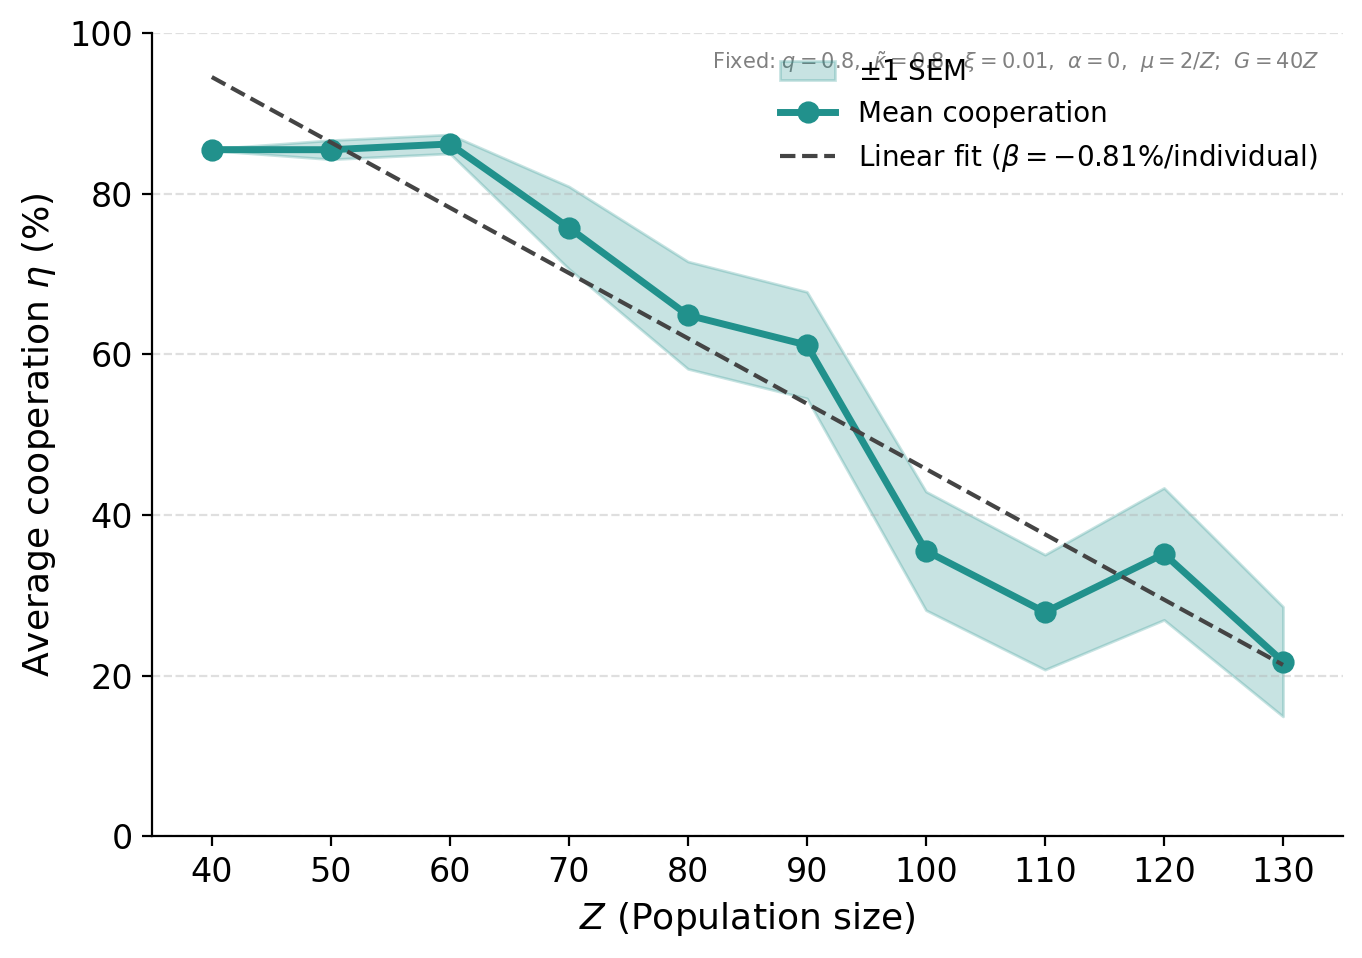
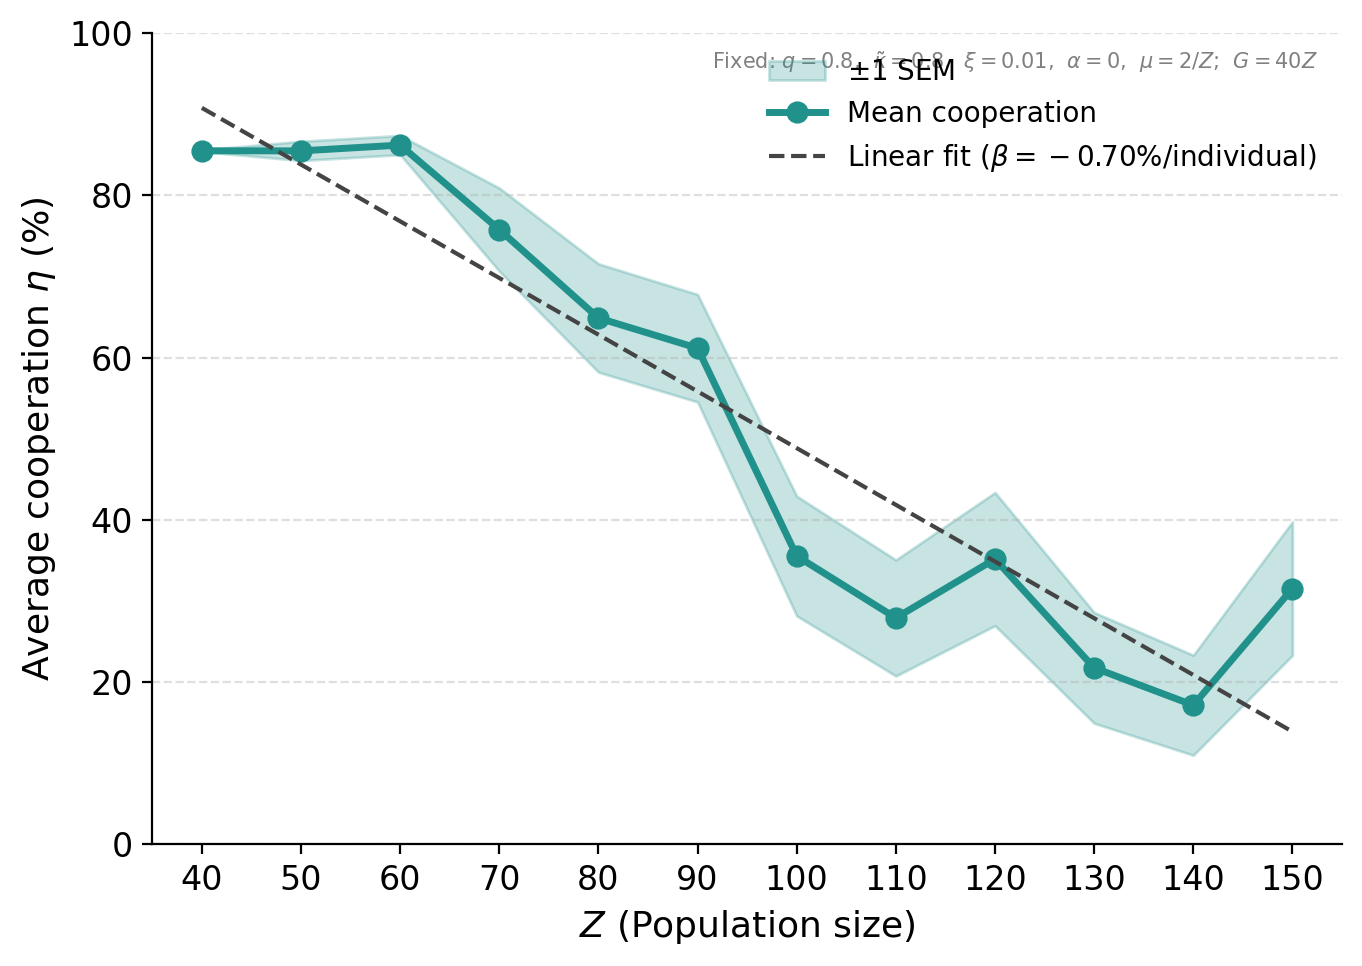
COmpleted z sweep plot

diff --git a/plotting/plot_sweep_z_fine.py b/plotting/plot_sweep_z_fine.py
@@ -27,10 +27,10 @@ OUTPUTS    = ROOT_DIR / "outputs"
 OUT_DIR    = SCRIPT_DIR / "plots" / "robustness"
 OUT_DIR.mkdir(parents=True, exist_ok=True)
 
-PAPER_ROOT = ROOT_DIR.parent / "Emotion as a Solution to Private Assessment"
 COPY_DIRS  = [
-    PAPER_ROOT / "PRSB" / "figs",
-    PAPER_ROOT / "PNAS" / "figs",
+    ROOT_DIR.parent / "Emotion-as-a-solution-to-Private-Assessment" / "figs",
+    ROOT_DIR.parent / "Proceedings_of_The_Royal_Society_B" / "figs",
+    ROOT_DIR.parent / "-PhD-Thesis-Dissertation" / "Images",
 ]
 
 mpl.rcParams.update({
